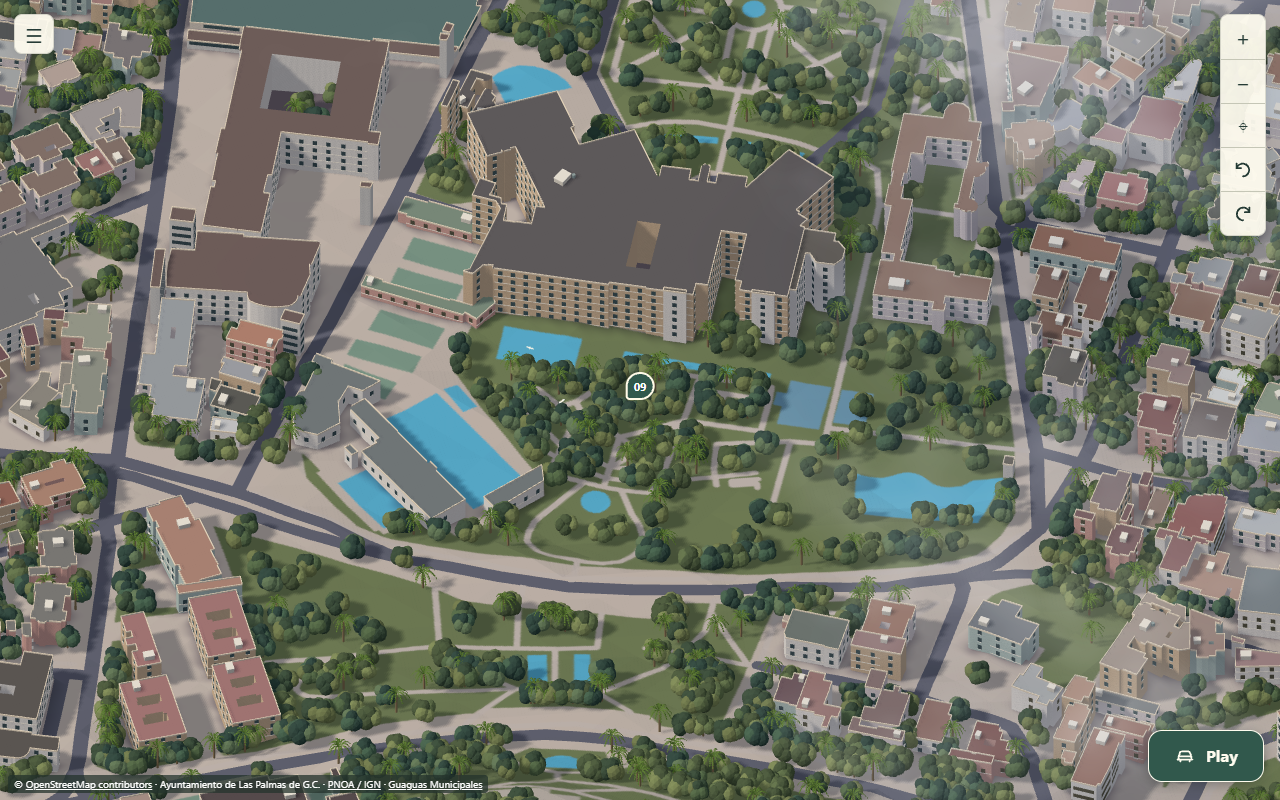
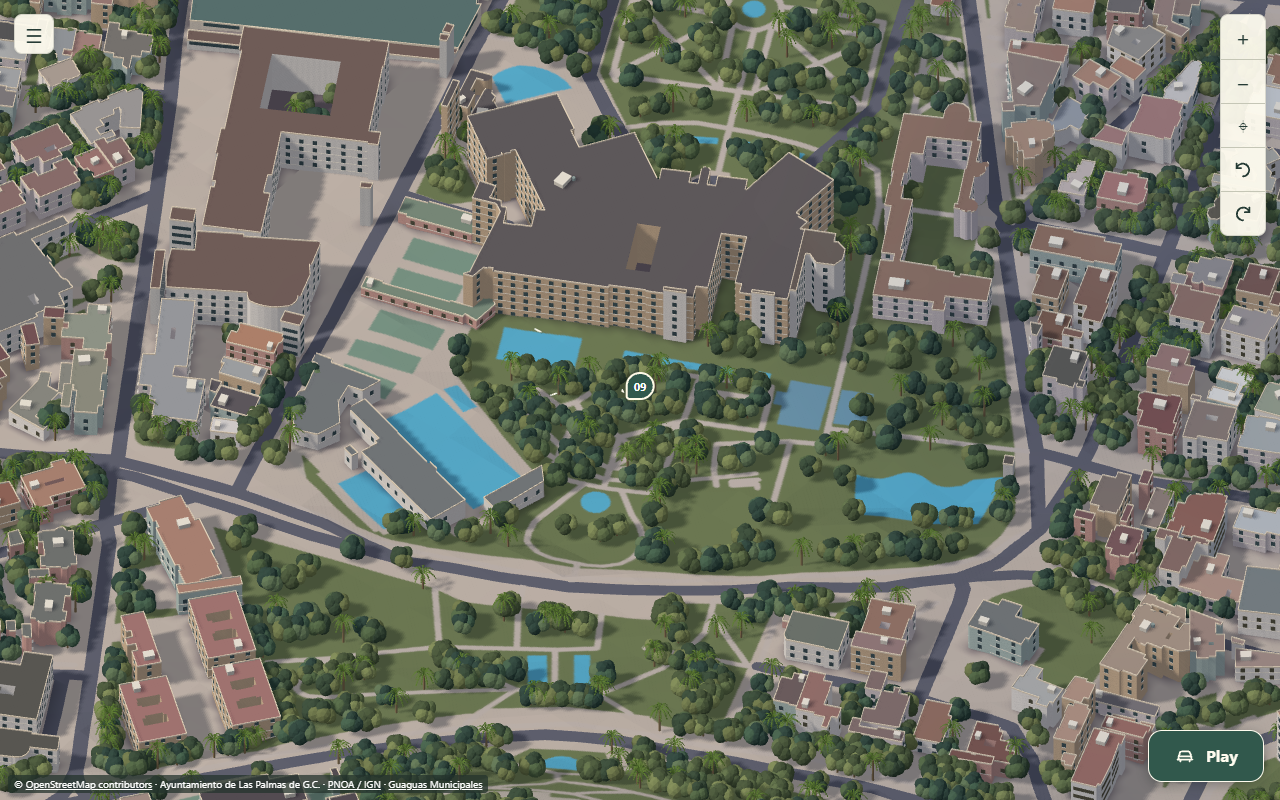
Enable the city sky by default and lift the cloud layer

diff --git a/src/render/sky-effects.ts b/src/render/sky-effects.ts
@@ -79,9 +79,13 @@ function build(anchors:Anchor[]){
       flock.instanceMatrix.needsUpdate=true;
     }
     const span=(camera.top-camera.bottom)/camera.zoom;
-    mist.uniforms.opacity.value=(driving ? .11 : .46)*T.MathUtils.smoothstep(span,95,340);
+    mist.uniforms.opacity.value=(driving ? .08 : .28)*T.MathUtils.smoothstep(span,160,500);
     cloud.visible=mist.uniforms.opacity.value>.002;
-    cloud.position.set(target.x,150,target.z);
+    // Centre the sheet where the line of sight crosses the cloud deck.
+    const clearance=400;
+    const fraction=clearance/Math.max(1,camera.position.y-target.y);
+    cloud.position.copy(target).lerp(camera.position,fraction);
+    cloud.position.y=target.y+clearance;
     cloud.scale.setScalar(450+4*Math.max(span,(camera.right-camera.left)/camera.zoom));
   },dispose(){
     for(const flock of flocks)flock.dispose();

diff --git a/src/main.ts b/src/main.ts
@@ -96,7 +96,7 @@ async function start(){
   let playRequestedAt=0;
   let beforeDrive: {target: T.Vector3;zoom: number} | null=null;
   const locations=poi.features.filter(f=>f.properties.areas.includes(pilot?'pilot':'city'));
-  const skyRequested=query.get('sky')==='1';
+  const skyRequested=query.get('sky')!=='0';
   const sky=makeSkyEffects(scene,locations.filter(f=>['parque-doramas','parque-santa-catalina'].includes(f.properties.id)).map(f=>{
     const [x,y]=f.properties.xy;
     return {x,y:altitude(x,y)+34,z:-y};

diff --git a/docs/SKY_EFFECTS.md b/docs/SKY_EFFECTS.md
@@ -1,6 +1,8 @@
-# Sky effects trial
+# Sky effects
 
-Open `/?focus=parque-doramas&sky=1` to see three gulls circling the park and wisps drifting over the city. Switch to `sky=0` for the same camera without the trial. Omitting `sky` also leaves the trial off. The other flock is at `focus=parque-santa-catalina`. For a drive near Doramas use `/?lab=guida&sky=1&start=-1340,1762`.
+The cloud layer sits 400 m above the camera target. Its opacity fades as the view narrows and reaches zero when the vertical span is 160 m or less.
+
+Open `/?focus=parque-doramas` to see three gulls circling the park and wisps drifting over the city. Switch to `sky=0` for the same camera with sky effects disabled. Omitting `sky` or setting `sky=1` enables the effects by default. The other flock is at `focus=parque-santa-catalina`. For a drive near Doramas use `/?lab=guida&start=-1340,1762`.
 
 **Quality control.** The renderer calls `sky.setEnabled(skyRequested && allowed)`. A quality policy can change `allowed` after the map opens:
 
@@ -9,7 +11,7 @@ window.dispatchEvent(new CustomEvent('atlas:sky-quality', {detail: false}));
 window.dispatchEvent(new CustomEvent('atlas:sky-quality', {detail: true}));
 ```
 
-The second call restores the effects on an opted-in page. The current adaptive resolution policy only changes pixel ratio. Wire its quality decision to `setSkyQualityAllowed` in `src/main.ts` to control the trial automatically.
+The second call restores the effects unless the URL specifies `sky=0`. The current adaptive resolution policy only changes pixel ratio. Wire its quality decision to `setSkyQualityAllowed` in `src/main.ts` to control the trial automatically.
 
 **Rendering.** Each flock shares a gull mesh and uses one instanced draw when visible. The transparent cloud plane samples the wind texture and clock used by the ground shadows. Its opacity fades at street zoom. Switching the trial off detaches the objects and skips animation updates. Switching it back on reuses the resources. Existing wind, sea and shadows run in both modes.
 

diff --git a/PROGRESS.md b/PROGRESS.md
@@ -188,6 +188,6 @@ Ancora aperti: fotogramma doppio a Santa Ana e Santo Domingo (causa GPU non diag
 
 **Rete guaguas in Conducir.** Entrando in guida si caricano indice e strade del quartiere. Fino a sei bus percorrono i tratti verificati di 46 linee nella città, con numeri reali sul display e frequenze di gioco. Su 822,1 km GTFS interni al plastico, contando separatamente le varianti, 666,6 km sono utilizzabili e 534 fermate sono servite. Nel pilota sono attive 12 linee. Le interruzioni per geometria o carreggiata sono localizzate nei rapporti. [Prova Vegueta, Pedro Hidalgo e Triana](docs/GUAGUAS.md) · [Copertura cittadina](public/data/guaguas/city/coverage.json).
 
-**Cielo sperimentale.** Gabbiani sopra Parque Doramas e Santa Catalina e nubi mosse dallo stesso vento delle ombre. Prova opzionale con ?sky=1. [Controlli e guida tecnica in inglese](docs/SKY_EFFECTS.md).
+**Cielo sperimentale.** Gabbiani sopra Parque Doramas e Santa Catalina e nubi mosse dallo stesso vento delle ombre. Attivi di default, disattivabili con `?sky=0`. [Controlli e guida tecnica in inglese](docs/SKY_EFFECTS.md).
 
 **Blocco sud.** La Montañeta, Marzagán, Tafira e Los Hoyos per intero, con i «Diseminado» di raccordo: città a 62,67 km², 36.321 parti di edificio, 72 barrios con nome, 110 zone e 1.290 settori. Terreno a riquadri, altezze LiDAR per 998 edifici, rete delle guaguas rigenerata. Heap dopo la raccolta 62,5 MB. Restano Tamaraceite, Almatriche, San Lorenzo, Los Giles e Tenoya a nord-ovest. [Misure e limiti](docs/QA.md#blocco-sud--25-novembre-2026)

diff --git a/docs/QA.md b/docs/QA.md
@@ -1174,7 +1174,7 @@ Verifiche: `typecheck`, `build`, `node scripts/qa.mjs`, `qa-boot`, `qa-recovery`
 
 Limiti. `qa-drive-lab.mjs` fallisce sull'URL dei valori (`t=player.baseSpeed:30`) anche sulla build precedente: non dipende da questo passo e non è diagnosticato. Chi gioca torna ai valori di prima finché la pagina resta visibile. Le impronte delle zone caricate (4-10 MB) restano in memoria per il Play seguente. Una misura per vista; memoria della GPU non misurata; il primo Play più lento non è stato provato su telefono fisico.
 
-**Cielo opzionale a Parque Doramas.** La prova in `scripts/qa-sky.mjs` confronta la stessa camera con e senza `sky=1`, conta i disegni WebGL dei due effetti e verifica la riattivazione, il recupero del contesto e l’ingresso in guida. L’osservazione dura 20 secondi per formato. [Cattura desktop](screenshots/sky-doramas.png) · [Controlli da URL e codice](SKY_EFFECTS.md).
+**Cielo a Parque Doramas.** La prova in `scripts/qa-sky.mjs` confronta la stessa camera con il cielo predefinito e con `sky=0`, conta i disegni WebGL dei due effetti e verifica la riattivazione, il recupero del contesto e l’ingresso in guida. L’osservazione dura 20 secondi per formato. [Cattura desktop](screenshots/sky-doramas.png) · [Controlli da URL e codice](SKY_EFFECTS.md).
 
 ## Guaguas locali in Conducir · rete cittadina
 
